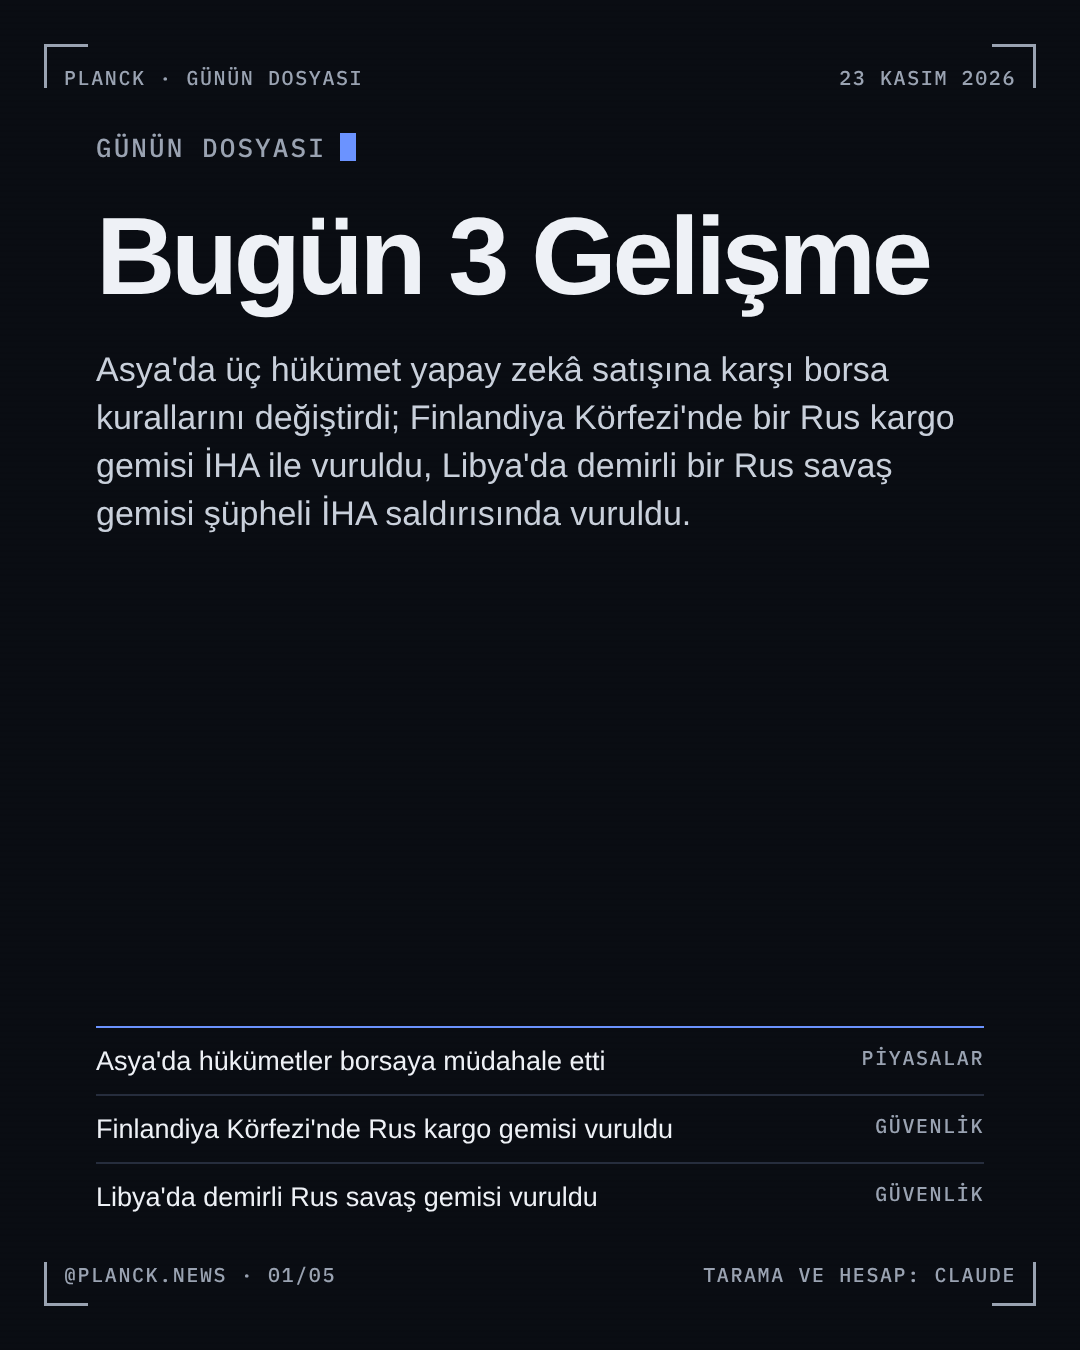
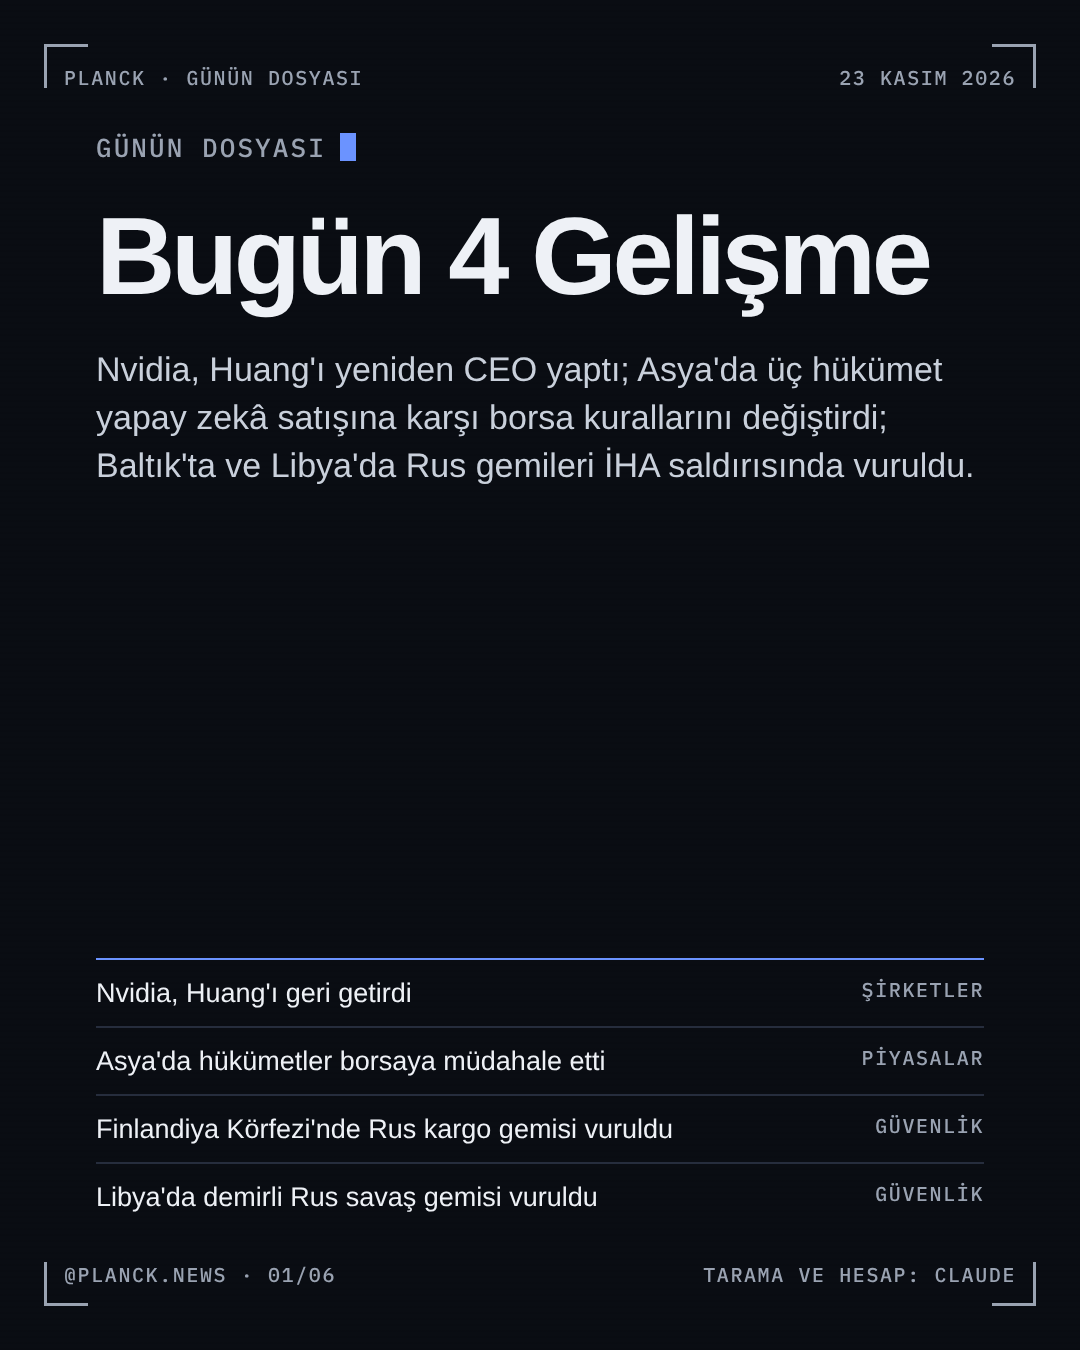
Dosya 23.11: Nvidia maddesi eklendi (Dedik %15 · Oldu), dosya.js karne etiketi; Instagram güvenlik ekranı nedeniyle planlanmadı
Claude-Session: https://claude.ai/code/session_01QCGPWJJC6juFjd743twhsh

diff --git a/news/dosya.js b/news/dosya.js
@@ -36,7 +36,7 @@ S.push(frame(`<div class="eb mono">Günün Dosyası<b></b></div><h1 style="margi
 SP.items.forEach((it,k)=>{ const [lv,b]=band(it.to); S.push(frame(`<div class="eb mono">${it.tag} · ${k+1}/${SP.items.length}<b></b></div>
 <h2 style="margin-top:28px;font-size:64px;line-height:70px">${it.title}</h2>
 <p class="b" style="margin-top:26px;font-size:30px;line-height:43px">${it.text}</p>
-${it.risk==null?`<div style="border-top:2px solid ${DIM};margin-top:34px;padding-top:26px"><span class="mono" style="font-size:20px;color:${MUT}">SORU AÇILMADI · ${it.nosoru||'ÖLÇÜLEMİYOR'}</span></div>`:`<div style="border-top:2px solid ${DIM};margin-top:34px;padding-top:26px"><span class="mono" style="font-size:20px;color:${MUT}">SORU</span>
+${it.risk==null?`<div style="border-top:2px solid ${DIM};margin-top:34px;padding-top:26px"><span class="mono" style="font-size:20px;color:${MUT}">${it.karne?it.karne:`SORU AÇILMADI · ${it.nosoru||'ÖLÇÜLEMİYOR'}`}</span></div>`:`<div style="border-top:2px solid ${DIM};margin-top:34px;padding-top:26px"><span class="mono" style="font-size:20px;color:${MUT}">SORU</span>
 <div style="display:flex;justify-content:space-between;align-items:baseline;margin-top:10px"><span style="font-size:32px;font-weight:700">${it.risk}</span><span style="font-family:ML,MX,monospace;font-size:56px;color:${BLUE}">%${it.to}</span></div>
 <div style="display:flex;gap:22px;align-items:center;margin-top:12px">${grid(it.to,11,3)}<div><span class="mono" style="font-size:22px;color:#eef1f6;display:block">100'de ${it.to}</span><span class="mono" style="font-size:18px;display:block;margin-top:8px">%${it.from} → %${it.to} · ${dl(it.from,it.to)}</span>${it.deadline?`<span class="mono" style="font-size:18px;color:${MUT};display:block;margin-top:8px">SON TARİH ${it.deadline}</span>`:''}</div></div></div>`}
 ${it.pq?`<div style="margin-top:auto;border-top:2px solid ${BLUE};padding-top:26px"><span class="mono" style="font-size:20px;color:${BLUE}">PEKİ BİZ?</span>

diff --git a/hikayeler/INDEX.md b/hikayeler/INDEX.md
@@ -4,7 +4,7 @@ Her haber bir hikâyeye bağlanır; yoksa yeni hikâye açılır (TARAMA §0a). 
 
 | Hikâye | Alan | Sorular | Gönderiler | Son güncelleme |
 |---|---|---|---|---|
-| [ABD–Çin teknoloji ve ticaret rekabeti (çip, nadir toprak, Tayvan)](abd-cin-teknoloji/HIKAYE.md) | jeopolitik | 6 açık / 6 | 1 | 2026-11-23 |
+| [ABD–Çin teknoloji ve ticaret rekabeti (çip, nadir toprak, Tayvan)](abd-cin-teknoloji/HIKAYE.md) | jeopolitik | 6 açık / 6 | 2 | 2026-11-23 |
 | [ABD ekonomisi ve Fed](abd-ekonomi-fed/HIKAYE.md) | şirketler/piyasa | 4 açık / 4 | 2 | 2026-11-23 |
 | [ABD–İran savaşı, Körfez ve Hürmüz](abd-iran-savasi/HIKAYE.md) | jeopolitik | 5 açık / 5 | 5 | 2026-11-23 |
 | [ABD'de demokratik kurumlar ve basın özgürlüğü](abd-kurumlar/HIKAYE.md) | göç ve toplum | 2 açık / 2 | 0 | 2026-11-23 |
@@ -12,7 +12,7 @@ Her haber bir hikâyeye bağlanır; yoksa yeni hikâye açılır (TARAMA §0a). 
 | [Süper El Niño ve gıda fiyatları](el-nino-gida/HIKAYE.md) | iklim | 2 açık / 2 | 0 | 2026-11-23 |
 | [Fransa'da bütçe ve hükümet krizi](fransa-siyaset/HIKAYE.md) | göç ve toplum | 2 açık / 2 | 0 | 2026-11-23 |
 | [İklim: COP31 Antalya ve küresel müzakereler](iklim-cop31/HIKAYE.md) | iklim | 0 açık / 0 | 2 | 2026-11-23 |
-| [Nvidia: Huang'ın ayrılışı ve dönüşü](nvidia-huang/HIKAYE.md) | şirketler | 5 açık / 8 | 2 | 2026-11-23 |
+| [Nvidia: Huang'ın ayrılışı ve dönüşü](nvidia-huang/HIKAYE.md) | şirketler | 5 açık / 8 | 3 | 2026-11-23 |
 | [Otonom silahlar için uluslararası kural süreci](otonom-silahlar/HIKAYE.md) | teknoloji | 0 açık / 0 | 1 | 2026-11-23 |
 | [Petrol fiyatı ve Türkiye'de akaryakıt](petrol-akaryakit/HIKAYE.md) | enerji | 8 açık / 8 | 3 | 2026-11-23 |
 | [Rusya–NATO deniz ve hava sınırı gerilimi (Baltık, Polonya, Akdeniz)](rusya-nato-deniz/HIKAYE.md) | jeopolitik | 0 açık / 0 | 2 | 2026-11-23 |
